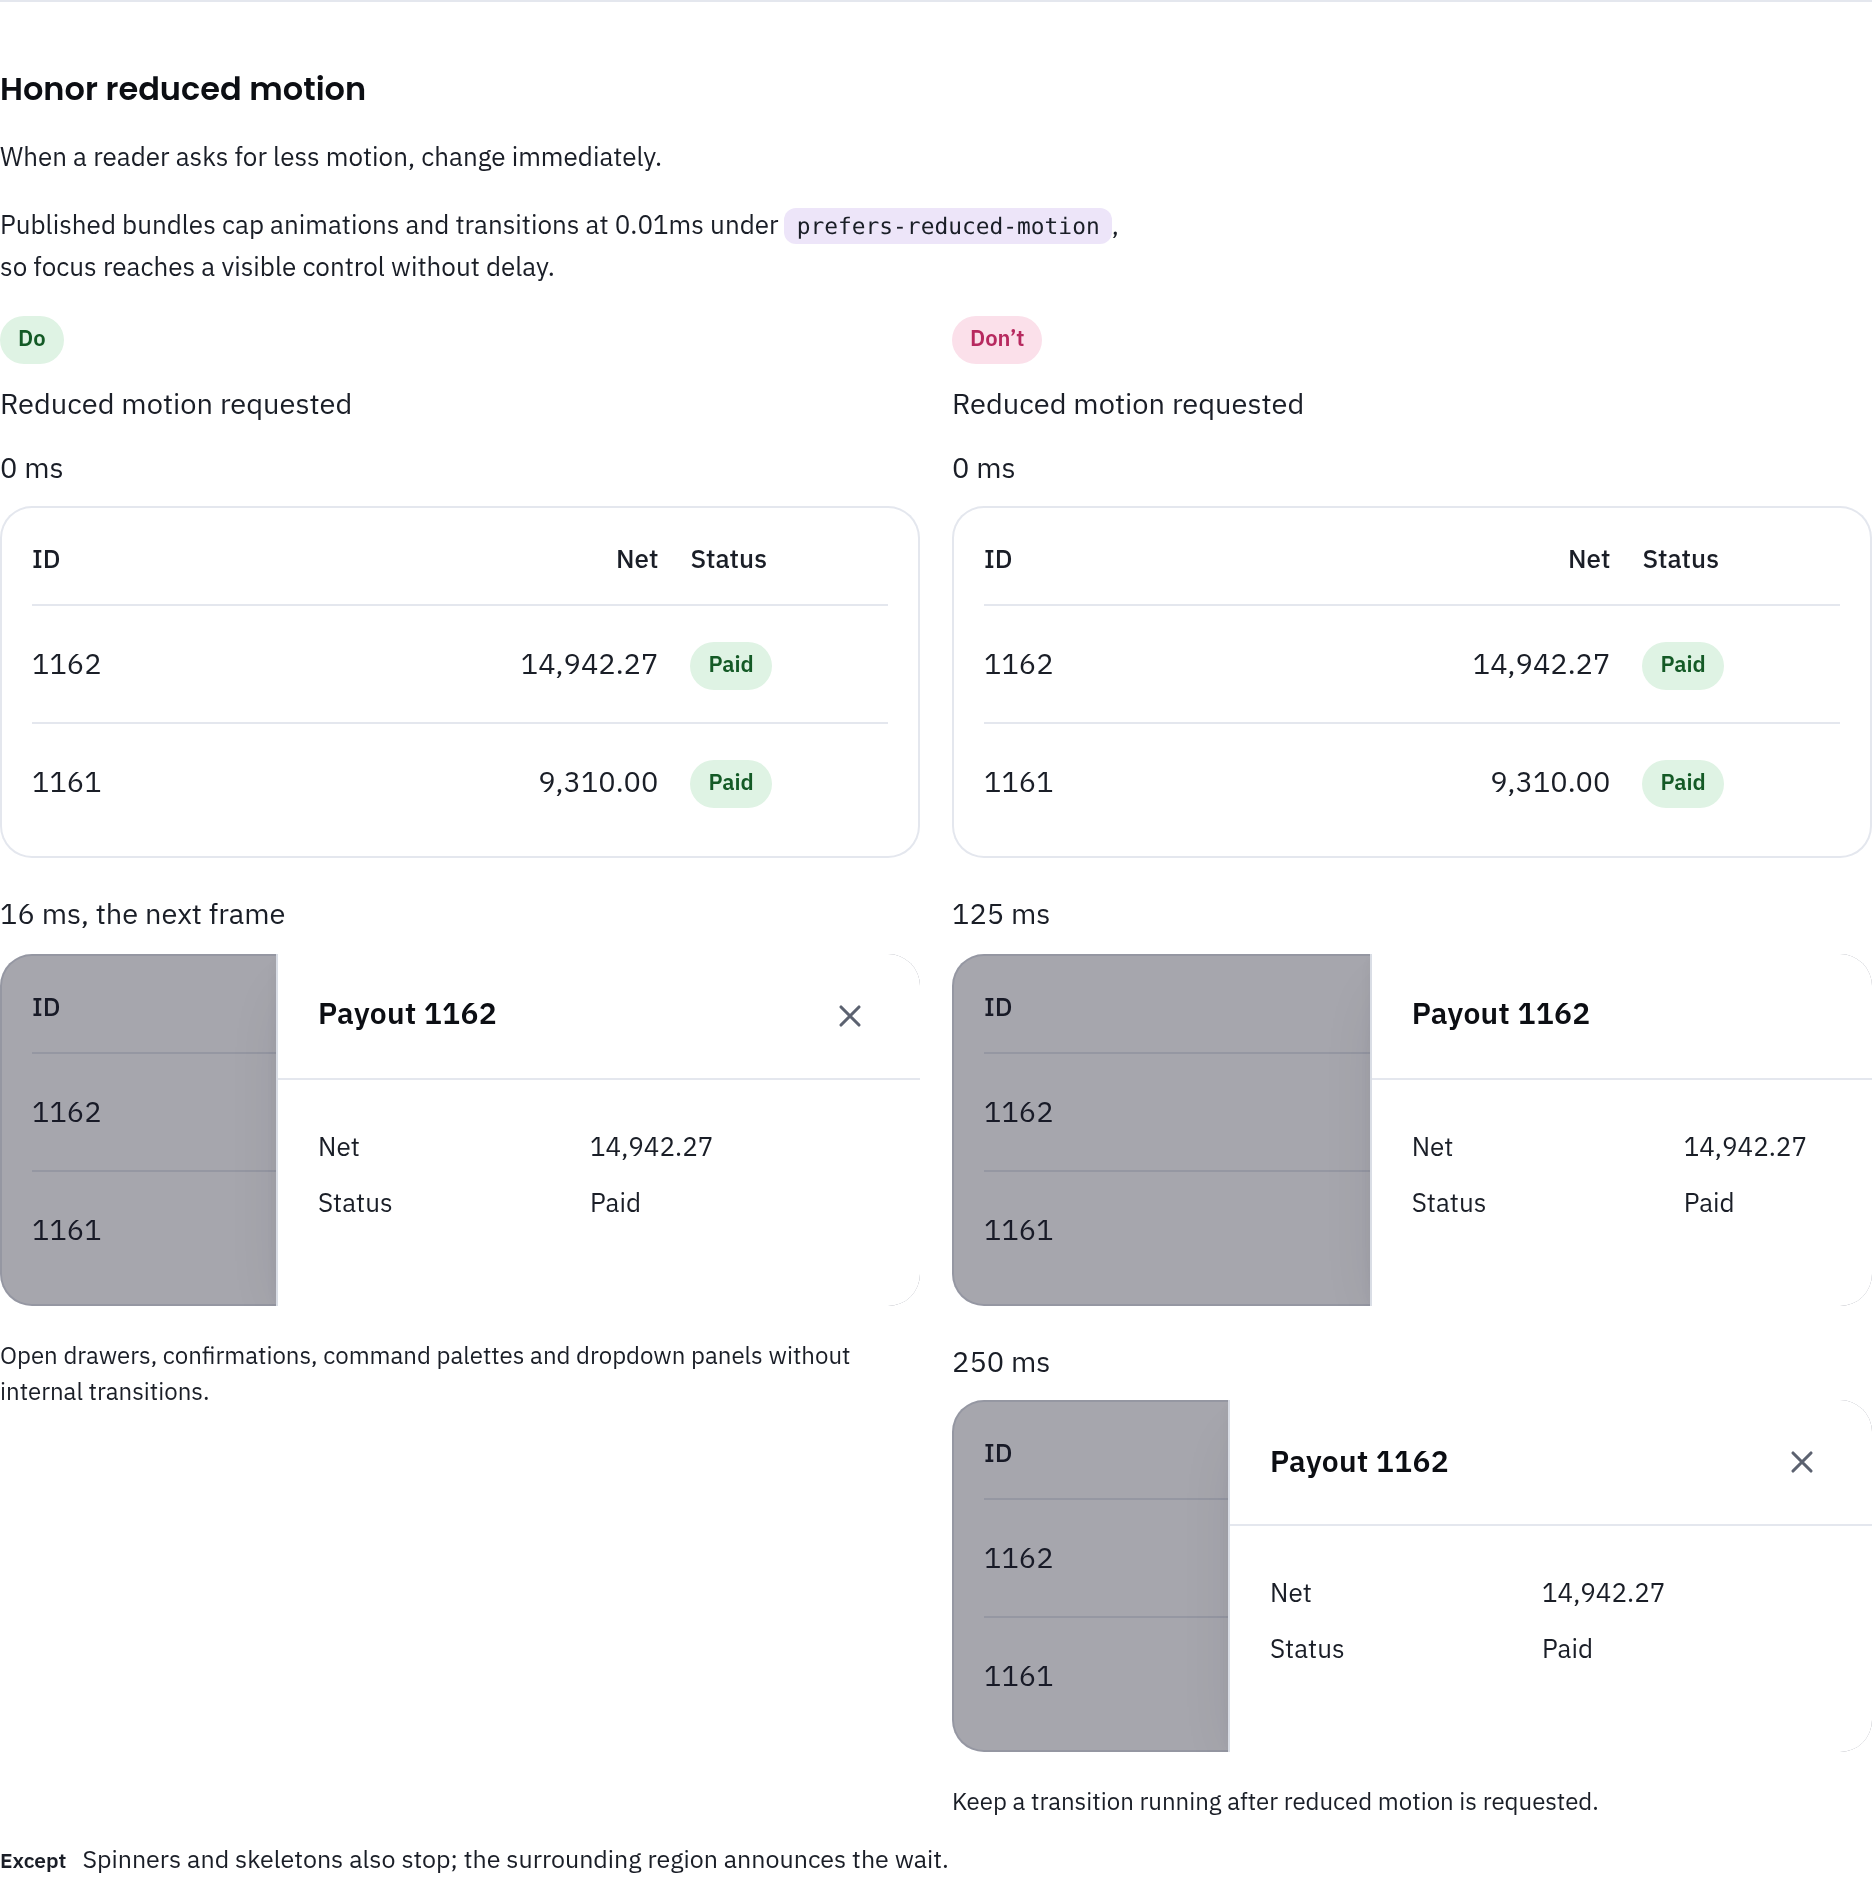
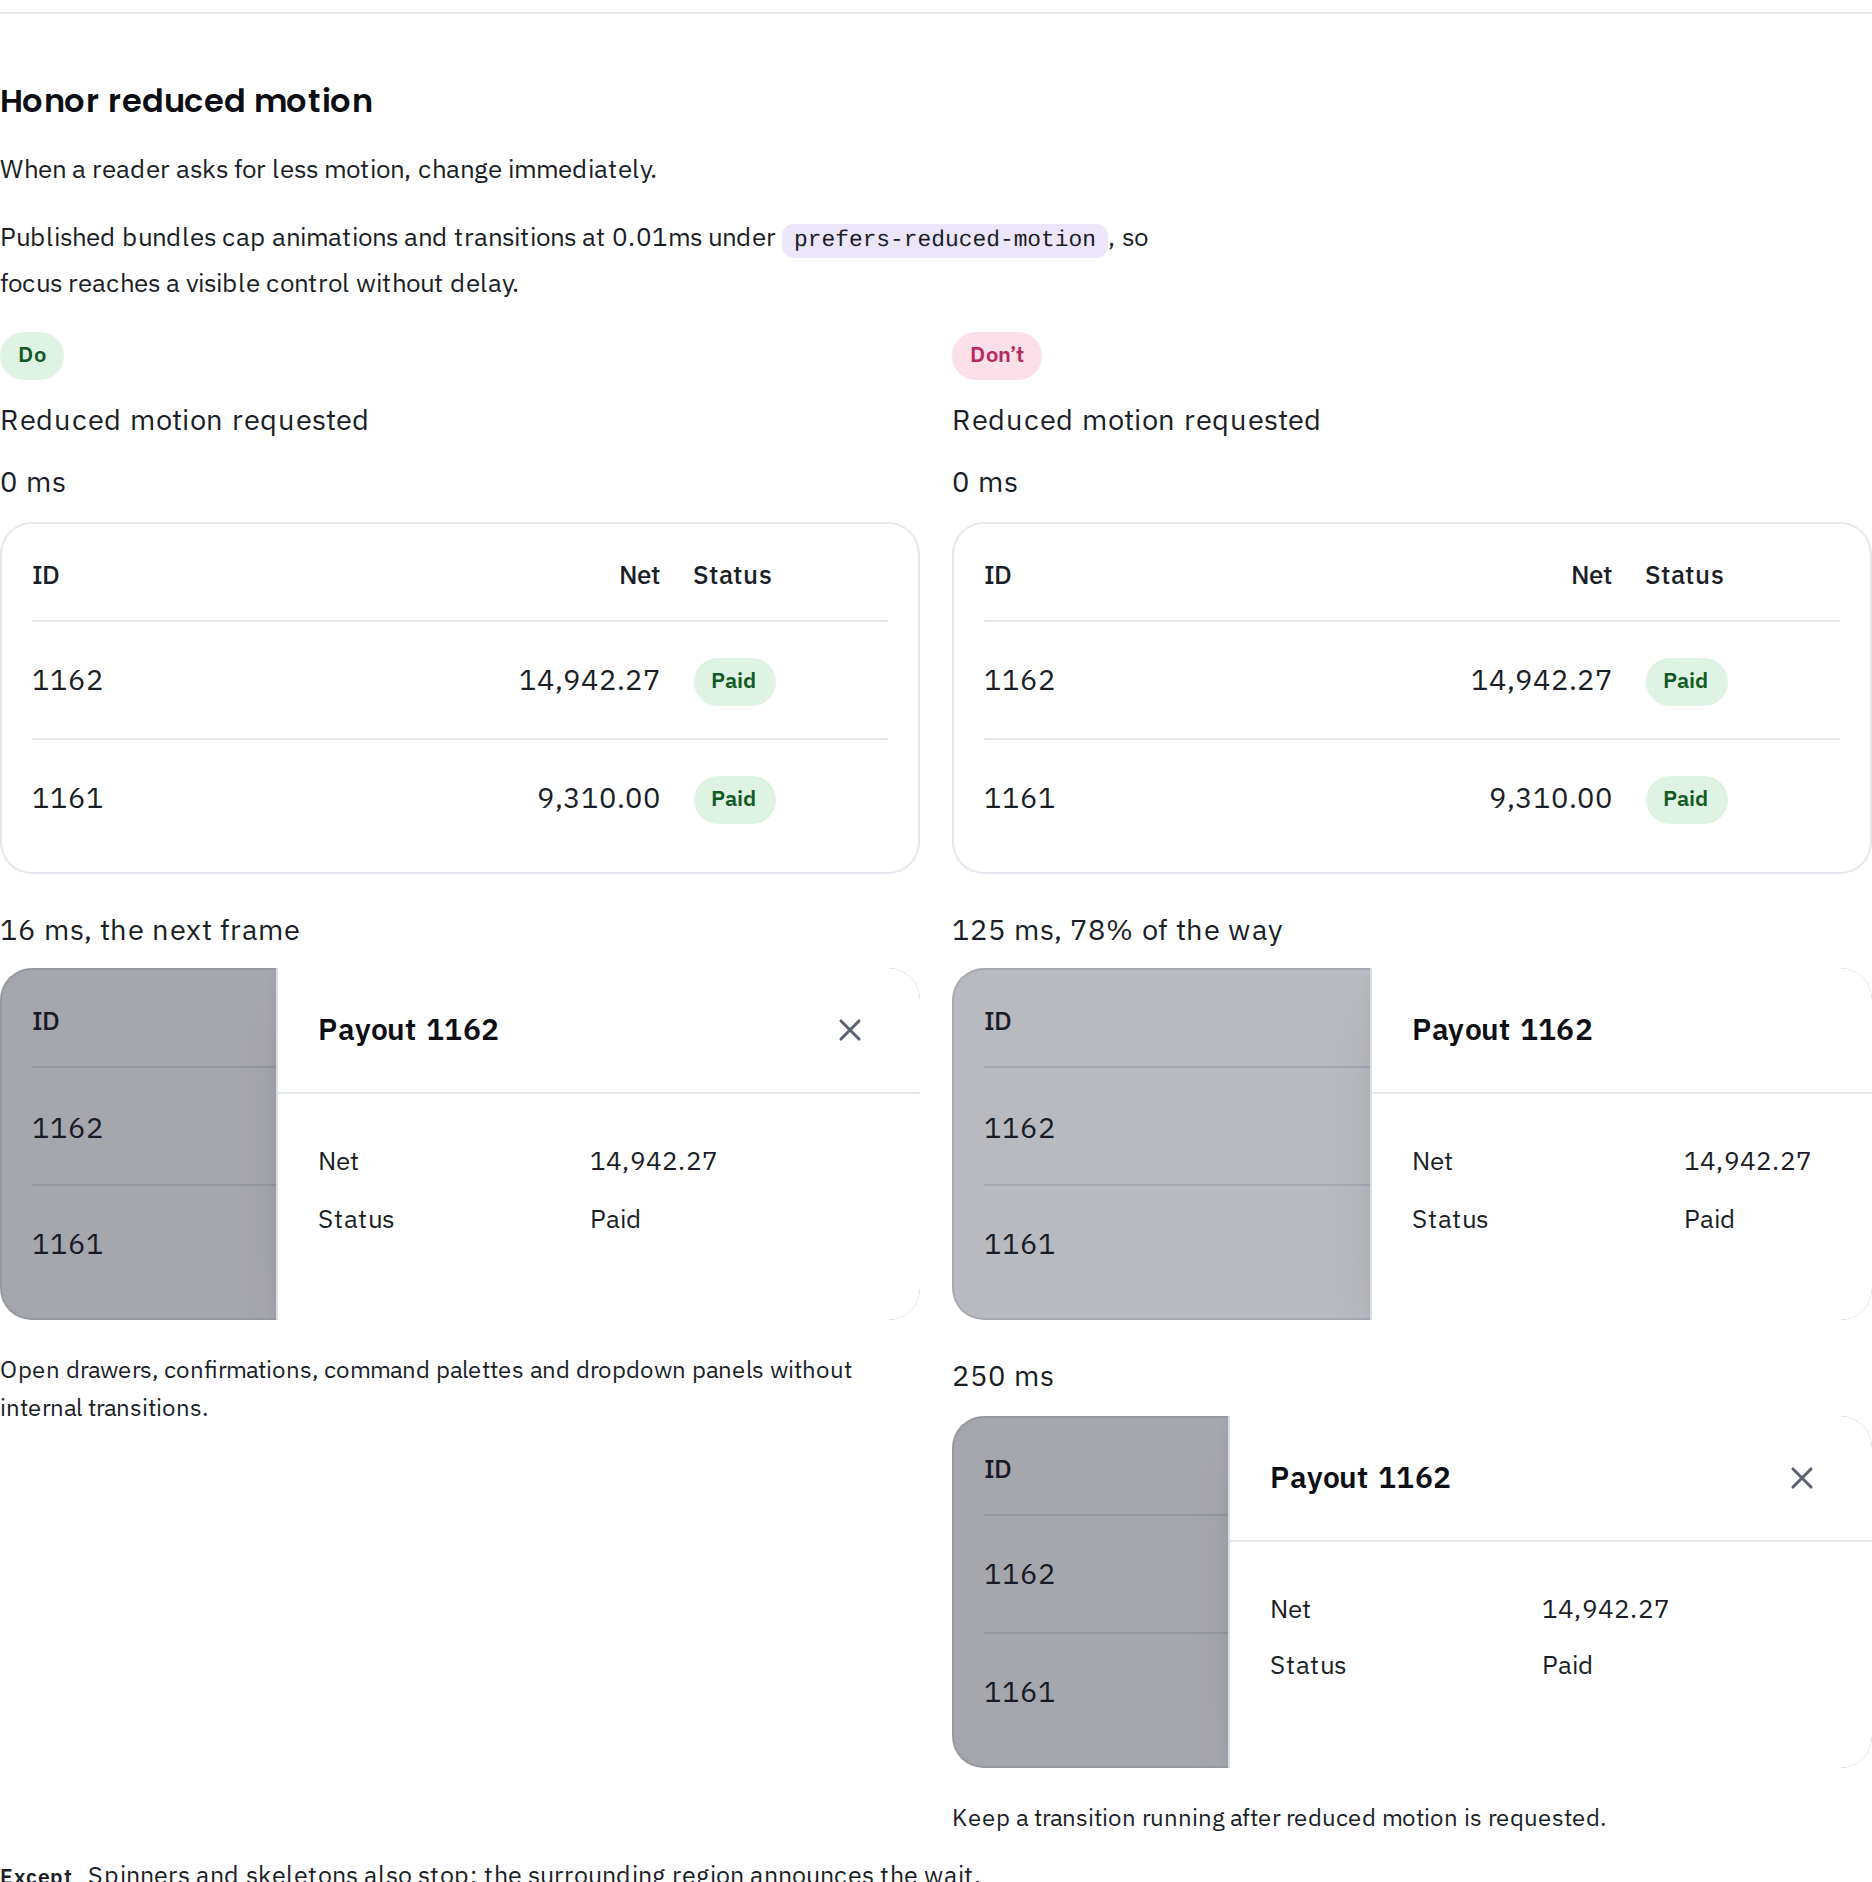
Motion: show the scrim at 78% in the 125 ms frame (#768)

diff --git a/stories/guidelines/Motion.stories.tsx b/stories/guidelines/Motion.stories.tsx
@@ -12,8 +12,8 @@ import { SPEC_CSS } from './_motion.js';
 const content = await loadGuideline('motion.md', new URL('../../guidelines/motion.md', import.meta.url));
 
 // A drawer opening, as still frames at the times printed above them. A closed
-// drawer is hidden, so the first frame is the page alone. The scrim is drawn at
-// its end value in every open frame.
+// drawer is hidden, so the first frame is the page alone. The half frame draws the
+// panel and the scrim where --ease has them at that time.
 type Step = 'closed' | 'half' | 'open';
 const Page = () => <table className="ui-table">
   <thead><tr><th>ID</th><th className="ui-table__num">Net</th><th>Status</th></tr></thead>
@@ -33,7 +33,7 @@ const Film = ({ frames }: { frames: [string, Step][] }) => <div className="gm-fi
     </div>,
   ])}
 </div>;
-const SLIDE: [string, Step][] = [['0 ms', 'closed'], ['125 ms', 'half'], ['250 ms', 'open']];
+const SLIDE: [string, Step][] = [['0 ms', 'closed'], ['125 ms, 78% of the way', 'half'], ['250 ms', 'open']];
 const JUMP: [string, Step][] = [['0 ms', 'closed'], ['16 ms, the next frame', 'open']];
 
 // What each motion is written with.

diff --git a/stories/guidelines/_motion.js b/stories/guidelines/_motion.js
@@ -18,6 +18,7 @@ export const SPEC_CSS = `
     .gm-frame .ui-drawer { position: absolute; }
     .gm-frame .ui-drawer__panel { width: 70%; }
     /* Half of --dur-med: --ease has covered 78% of the travel, so 22% of the
-       panel's 70% is still past the edge. */
+       panel's 70% is still past the edge, and the scrim is at 78% of its fade. */
     .gm-frame--half .ui-drawer__panel { right: -15.4%; }
+    .gm-frame--half .ui-drawer.is-open .ui-drawer__scrim { opacity: 0.78; }
   </style>`;
